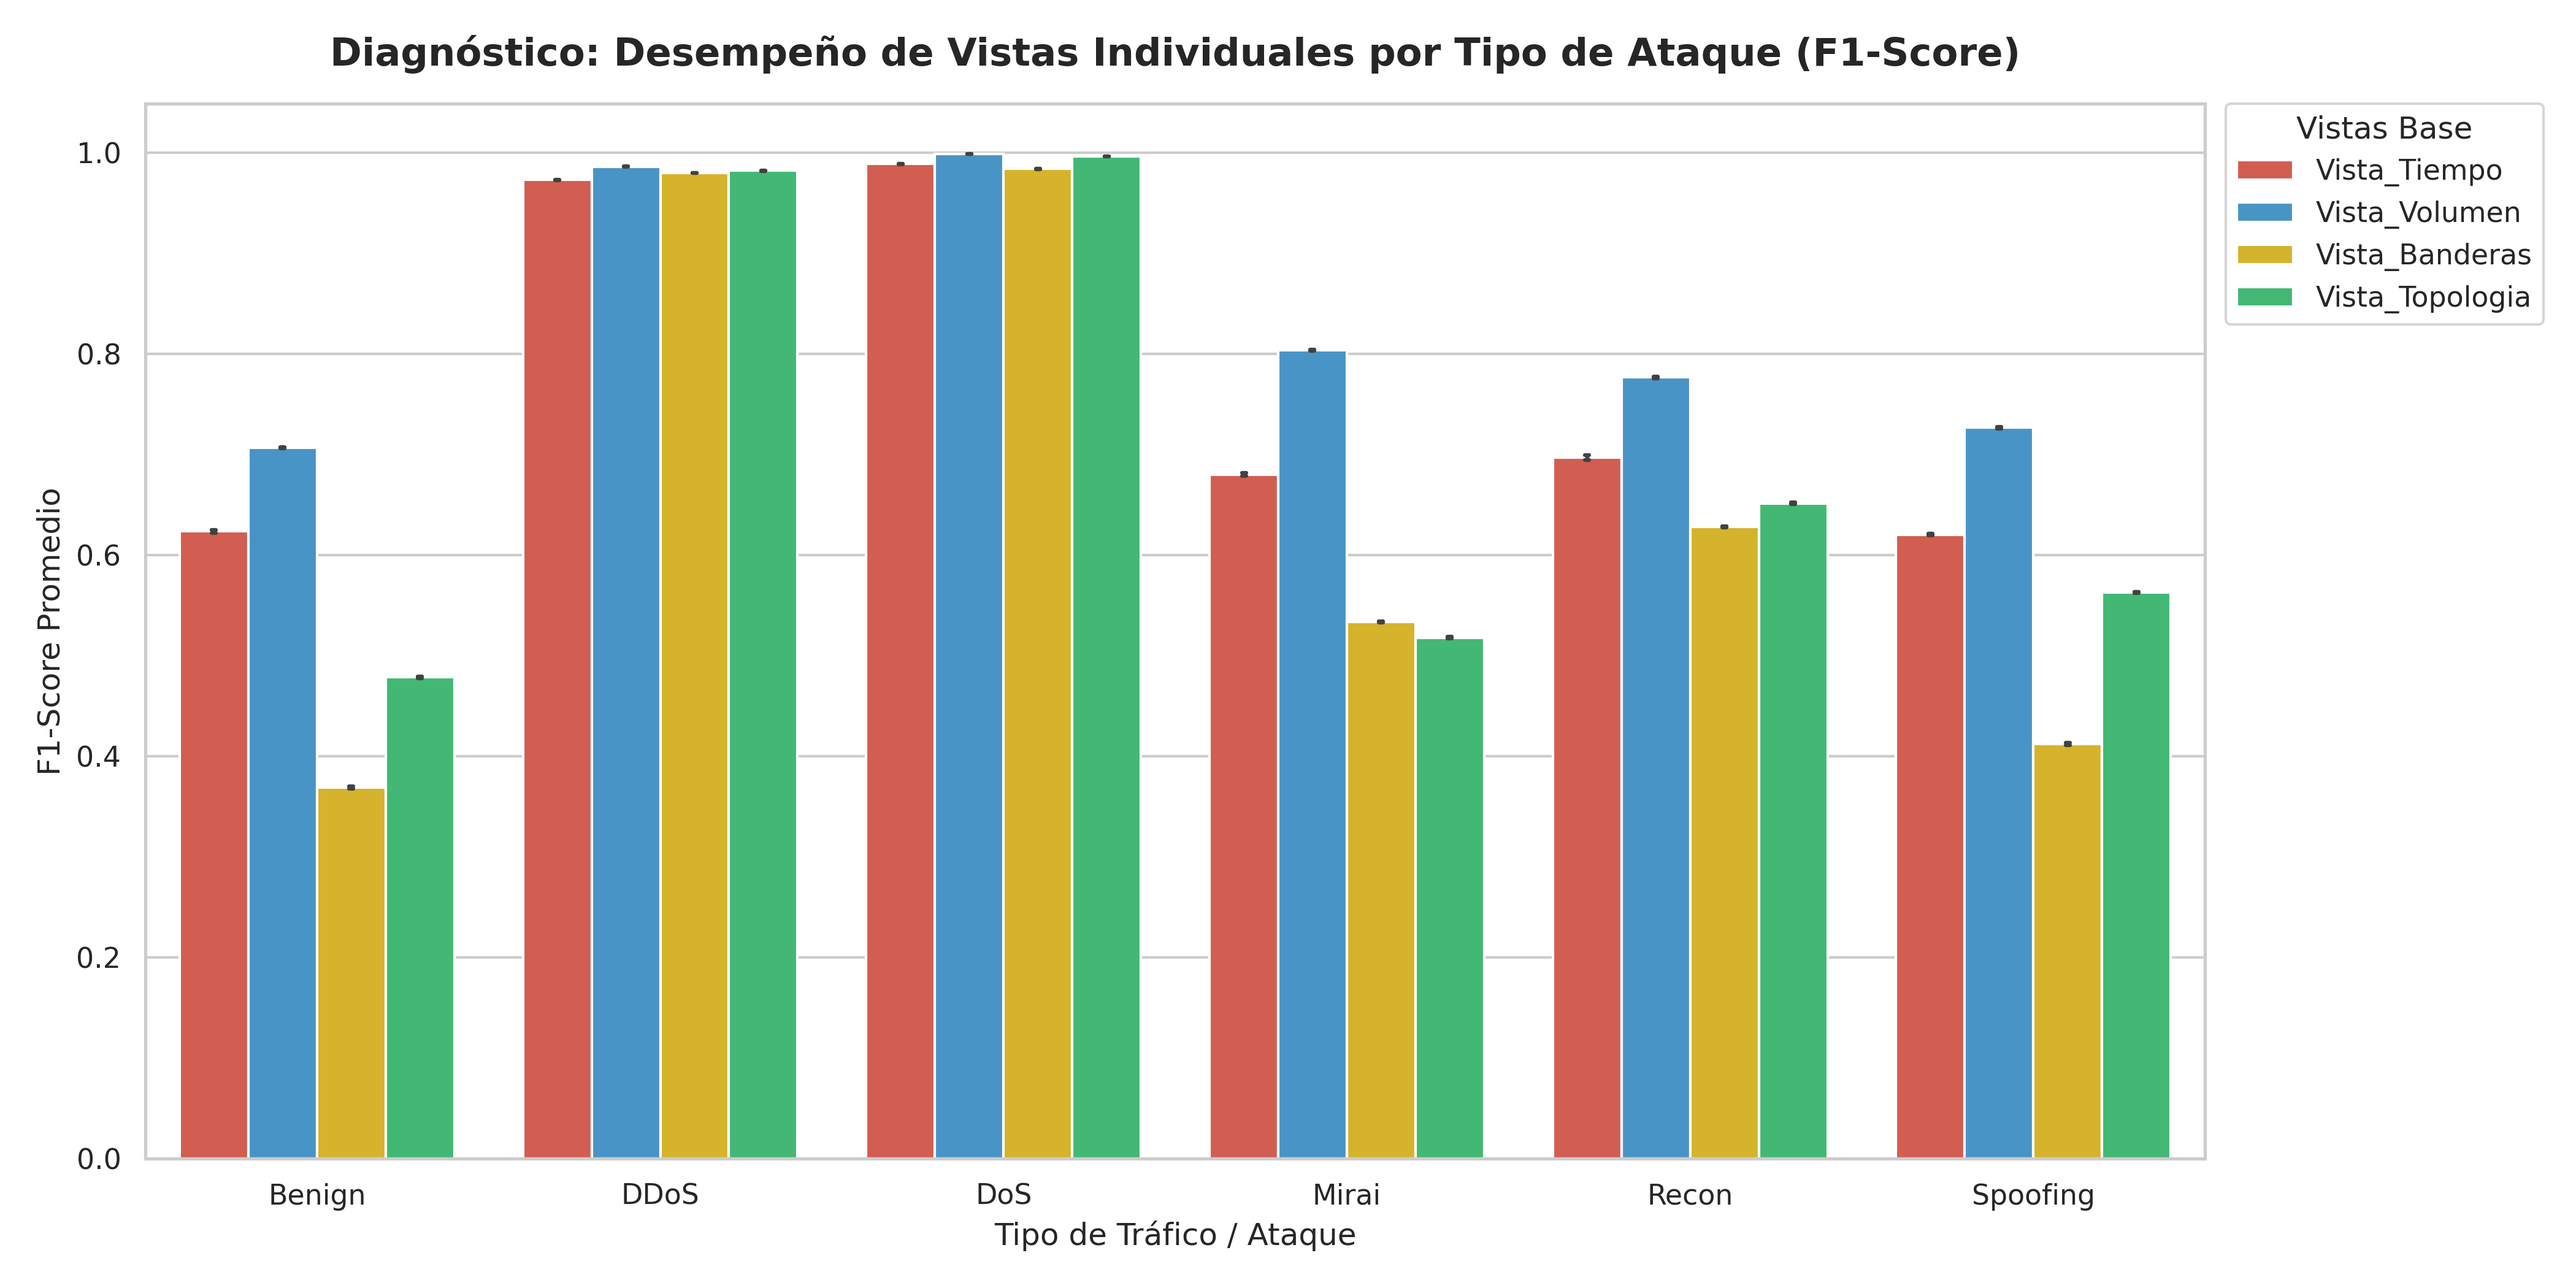
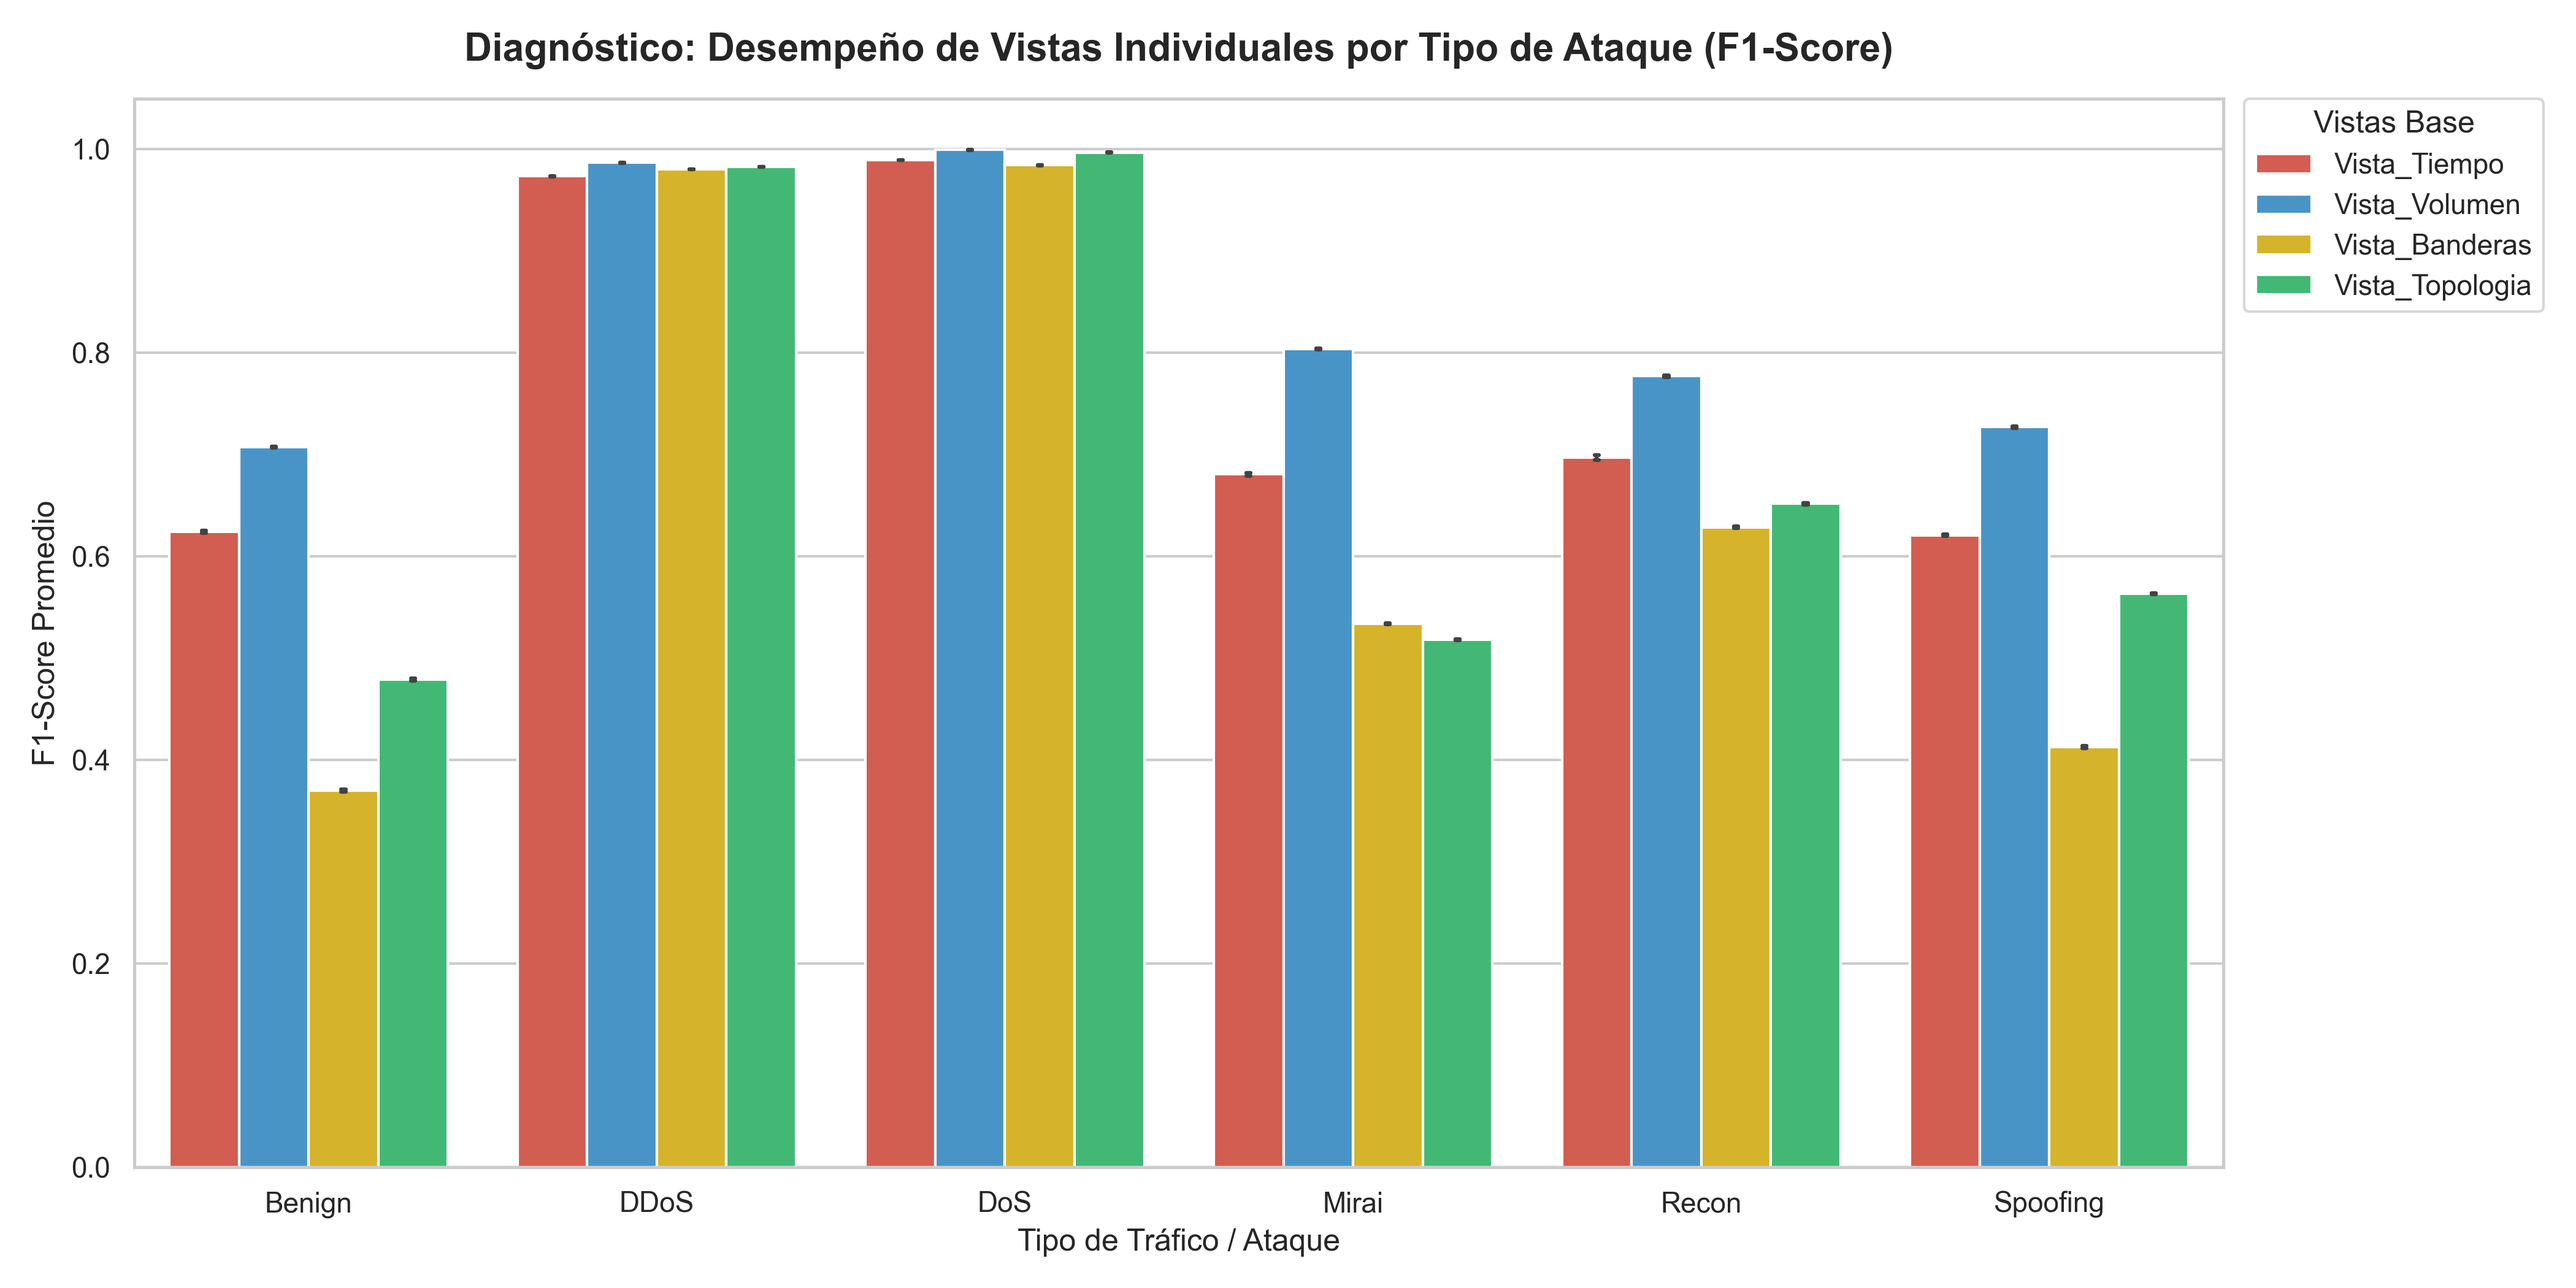
Voting hard and soft

diff --git a/Code/multiview_test.py b/Code/multiview_test.py
@@ -1,9 +1,8 @@
-from pathlib import Path
 import numpy as np
 import pandas as pd
 
 from sklearn.linear_model import LogisticRegression
-from sklearn.ensemble import RandomForestClassifier, ExtraTreesClassifier
+from sklearn.ensemble import RandomForestClassifier, ExtraTreesClassifier, VotingClassifier
 from sklearn.tree import DecisionTreeClassifier
 from sklearn.naive_bayes import GaussianNB
 from xgboost import XGBClassifier
@@ -11,6 +10,8 @@ from sklearn.metrics import accuracy_score, f1_score, classification_report
 from sklearn.model_selection import train_test_split
 from sklearn.preprocessing import LabelEncoder, MinMaxScaler
 from sklearn.impute import SimpleImputer
+from sklearn.pipeline import Pipeline
+from sklearn.base import BaseEstimator, TransformerMixin
 
 from multiviewstacking import MultiViewStacking
 
@@ -167,6 +168,29 @@ def evaluate_multiview(X_train, y_train, X_test, y_test, seed, ind_vistas):
     
     return {"model": "MultiViewStacking", "accuracy": acc, "f1_macro": f1}, preds
 
+class ColumnSelector(BaseEstimator, TransformerMixin):
+    def __init__(self, indices): self.indices = indices
+    def fit(self, X, y=None): return self
+    def transform(self, X): return X[:, self.indices]
+
+def evaluate_voting(X_train, y_train, X_test, y_test, seed, ind_vistas, voting='hard'):
+    estimators = [
+        (f"vista_{i}", Pipeline([
+            ("selector", ColumnSelector(indices)),
+            ("rf", RandomForestClassifier(
+                n_estimators=RF_ESTIMATORS, random_state=seed, class_weight='balanced'
+            ))
+        ]))
+        for i, indices in enumerate(ind_vistas)
+    ]
+    model_name = f"Voting_{voting.capitalize()}"
+    vc = VotingClassifier(estimators=estimators, voting=voting)
+    vc.fit(X_train, y_train)
+    preds = vc.predict(X_test)
+    acc = accuracy_score(y_test, preds)
+    f1 = f1_score(y_test, preds, average='macro')
+    return {"model": model_name, "accuracy": acc, "f1_macro": f1}, preds
+
 def summarize_results(df_runs):
     """Genera un resumen estadístico (Media y Desviación Estándar) de las corridas."""
     return df_runs.groupby("model")[["accuracy", "f1_macro"]].agg(["mean", "std"]).reset_index()
@@ -235,6 +259,21 @@ def main():
 
         all_per_class.extend(metrics_per_class(y_test, mv_preds, le, "MultiViewStacking", run_idx + 1, run_seed))
         all_per_class.extend(metrics_per_class(y_test, sv_preds, le, "SingleView", run_idx + 1, run_seed))
+
+        # --- ENTRENAMIENTO Y EVALUACIÓN (Voting Classifiers) ---
+        hv_result, hv_preds = evaluate_voting(
+            X_train_scaled, y_train, X_test_scaled, y_test, run_seed, ind_vistas, voting='hard'
+        )
+        sv_voting_result, sv_voting_preds = evaluate_voting(
+            X_train_scaled, y_train, X_test_scaled, y_test, run_seed, ind_vistas, voting='soft'
+        )
+
+        hv_result["run"] = run_idx + 1
+        sv_voting_result["run"] = run_idx + 1
+        all_results.extend([hv_result, sv_voting_result])
+
+        all_per_class.extend(metrics_per_class(y_test, hv_preds, le, "Voting_Hard", run_idx + 1, run_seed))
+        all_per_class.extend(metrics_per_class(y_test, sv_voting_preds, le, "Voting_Soft", run_idx + 1, run_seed))
 
         print(
             f"Run {run_idx + 1:02d}/{N_RUNS} | seed={run_seed} | "
